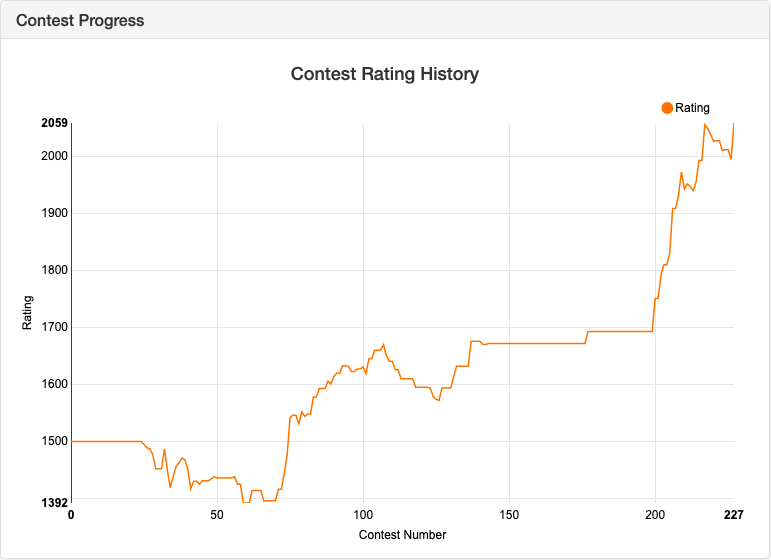
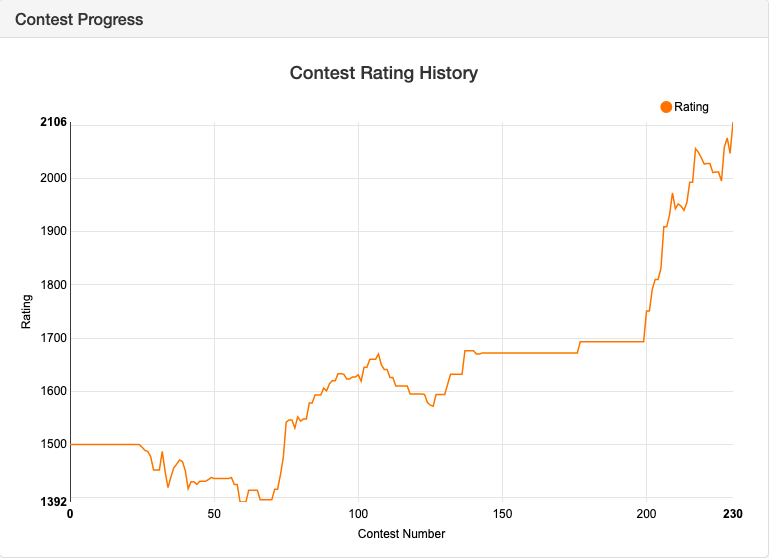
2100 lc

diff --git a/_includes/cp_info.html b/_includes/cp_info.html
@@ -1,10 +1,10 @@
 <h3 id="leetcode-contest-ranking">Leetcode Contest Ranking</h3>
 
-<p><code class="language-plaintext highlighter-rouge">92</code> Finished Contests</p>
+<p><code class="language-plaintext highlighter-rouge">94</code> Finished Contests</p>
 
-<p><code class="language-plaintext highlighter-rouge">2076</code> Rating</p>
+<p><code class="language-plaintext highlighter-rouge">2106</code> Rating</p>
 
-<p><code class="language-plaintext highlighter-rouge">1448 / 112968</code> Global Ranking</p>
+<p><code class="language-plaintext highlighter-rouge">1267 / 112968</code> Global Ranking</p>
 
 <p><a href="https://leetcode.com/jonathantsang/">Profile</a></p>
 

diff --git a/cp/cp.md b/cp/cp.md
@@ -202,7 +202,7 @@ Previous results:
 - `n/a` Solved 0 in [Spring 2019](http://acm.student.cs.uwaterloo.ca/~acm00/190622score.html)
 - `n/a` skipped Fall 2019 contest
 - `n/a` Solved 0 in [Winter 2020](http://acm.student.cs.uwaterloo.ca/~acm00/200201score.html)
-- `26/38` Solved 1 in [Spring 2020][]
+- `26/38` Solved 1 in [Spring 2020][http://acm.student.cs.uwaterloo.ca/~acm00/200725score.html]
 
 ### Topcoder
 
